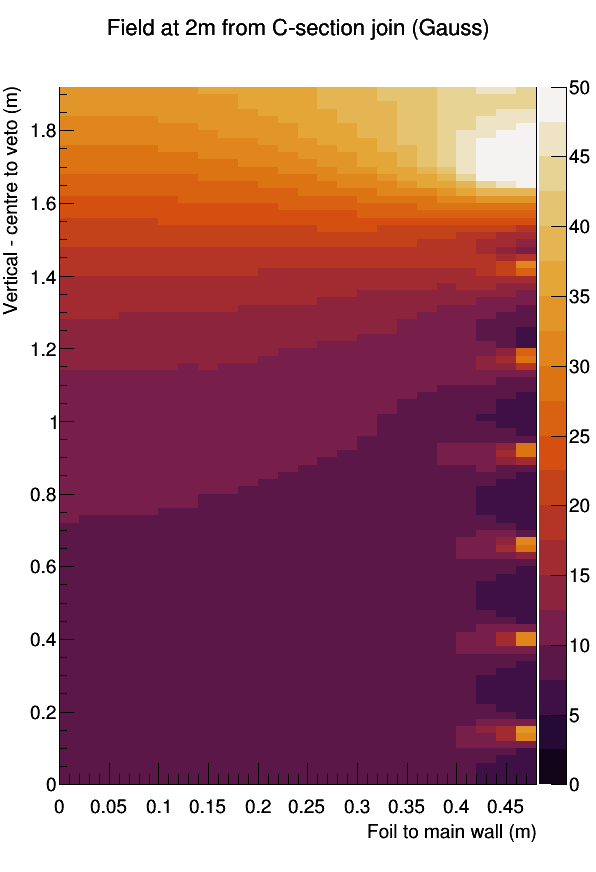
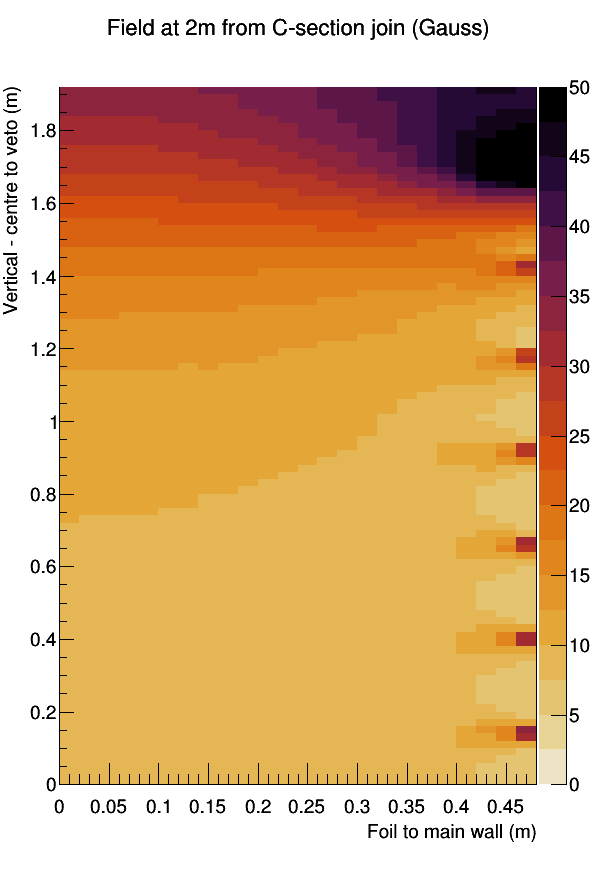
Change colour scheme

diff --git a/parseFieldMap.cpp b/parseFieldMap.cpp
@@ -97,6 +97,10 @@ void parseFieldMap()
         }
       }
     }
+    
+    gStyle->SetPalette(kSunset);
+    TColor::InvertPalette();
+    
     MakePlotSet(totalfield,1,"C-section join");
     MakePlotSet(totalfield,50,"1m from C-section join");
     MakePlotSet(totalfield,100,"2m from C-section join");
@@ -205,7 +209,7 @@ void MakePlotSet(TH3D *totalfield, int ybin, string text)
   plot2d->GetXaxis()->SetTitle(ztitle.c_str());
   plot2d->GetYaxis()->SetTitle(ytitle.c_str());
   //c2->SetLogz();
-  gStyle->SetPalette(kSunset);
+  //gStyle->SetPalette(kInvertedDarkBodyRadiator);
   plot2d->Draw("COLZ");
   c2->SaveAs((text+"_2d.png").c_str());
 }
